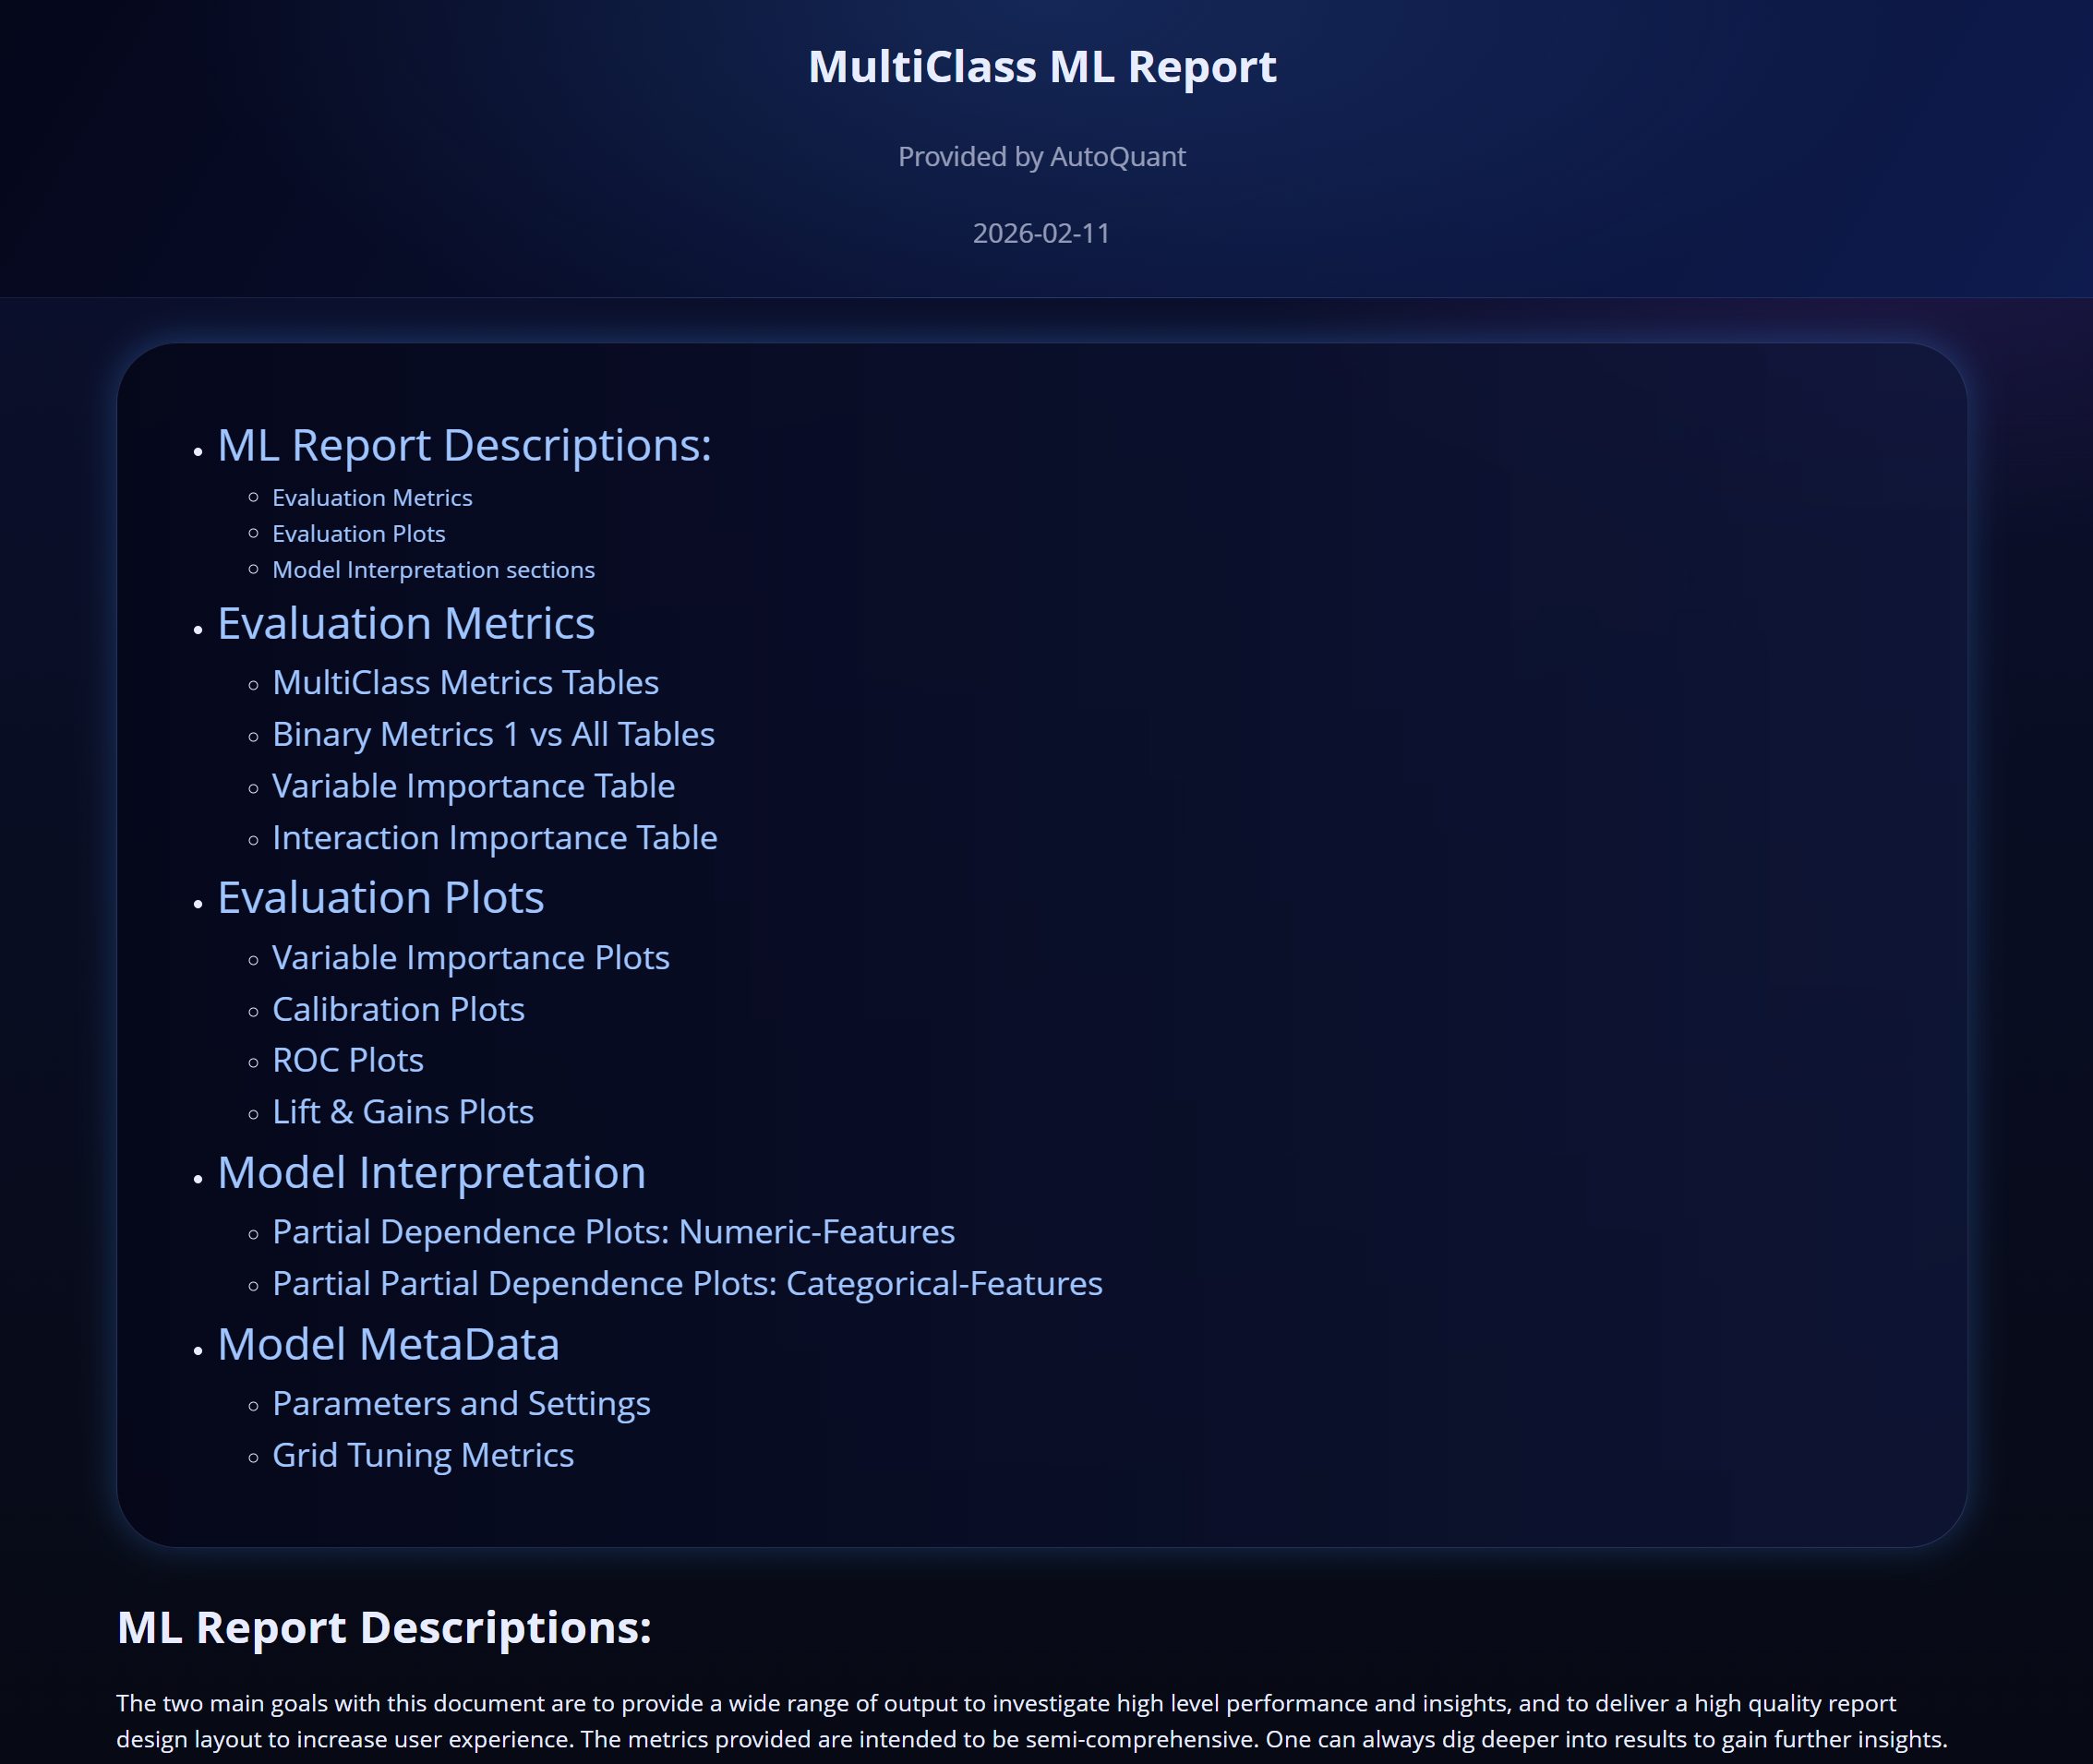
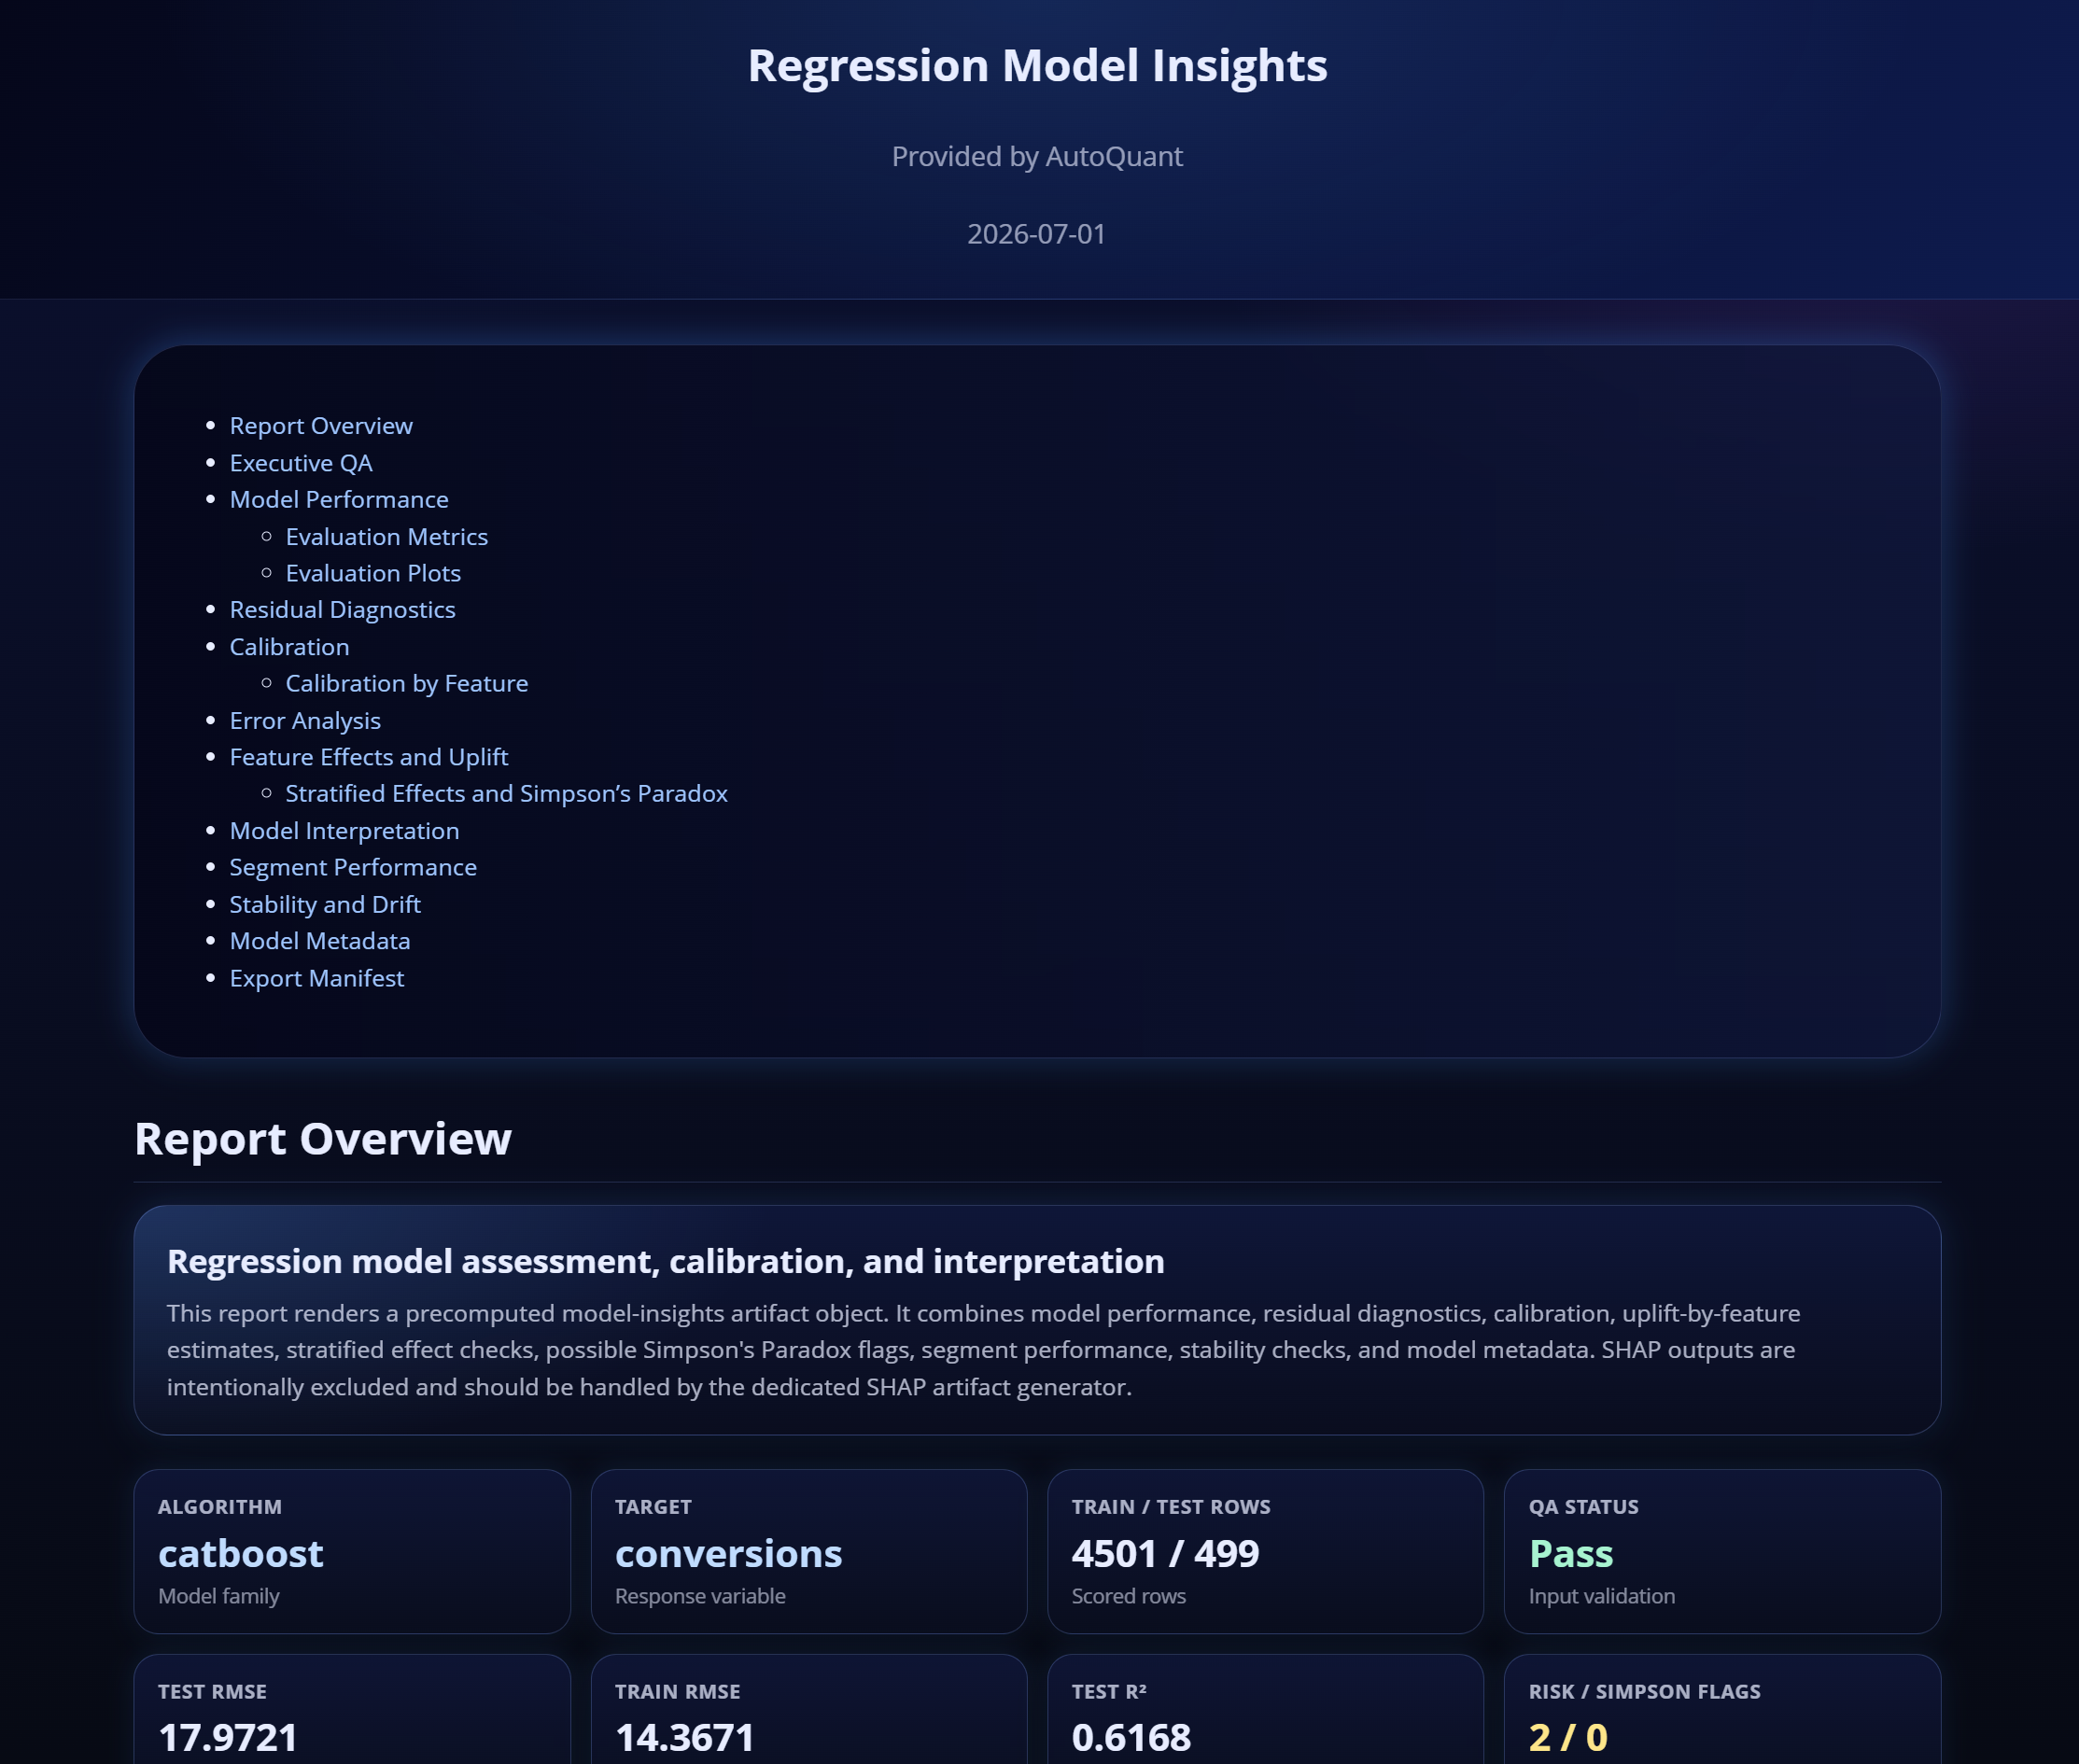
Update README

diff --git a/README.md b/README.md
@@ -4037,53 +4037,319 @@ Preds <- AutoQuant::AutoXGBoostScoring(
 <p>
 
 ```r
-# Create some dummy correlated data
-data <- AutoQuant::FakeDataGenerator(
-  Correlation = 0.85,
-  N = 10000,
-  ID = 2,
-  ZIP = 0,
-  AddDate = FALSE,
-  Classification = FALSE,
-  MultiClass = FALSE)
+set.seed(8675309)
 
-# Copy data
-data1 <- data.table::copy(data)
+library(data.table)
+library(AutoQuant)
 
-# Define features names
-Features <- c(names(data1)[!names(data1) %in% c('IDcol_1','IDcol_2','Adrian')])
+# ----------------------------
+# 1. Create fake data
+# ----------------------------
+
+n <- 5000
+
+dates <- seq.Date(
+  from = as.Date("2023-01-01"),
+  to   = as.Date("2025-12-31"),
+  by   = "day"
+)
+
+dt <- data.table(
+  id = seq_len(n),
+
+  # Date / trend fields
+  event_date = sample(dates, n, replace = TRUE),
+
+  # Grouping fields
+  channel = sample(
+    c("Search", "Social", "Email", "Direct", "Affiliate"),
+    n,
+    replace = TRUE,
+    prob = c(0.34, 0.24, 0.16, 0.18, 0.08)
+  ),
+
+  region = sample(
+    c("West", "South", "Midwest", "Northeast"),
+    n,
+    replace = TRUE,
+    prob = c(0.35, 0.28, 0.20, 0.17)
+  ),
+
+  customer_segment = sample(
+    c("Budget", "Standard", "Premium", "Enterprise"),
+    n,
+    replace = TRUE,
+    prob = c(0.35, 0.40, 0.20, 0.05)
+  )
+)
+
+# Date features for synthetic signal
+dt[, month_num := as.integer(format(event_date, "%m"))]
+dt[, year_num  := as.integer(format(event_date, "%Y"))]
+dt[, day_index := as.integer(event_date - min(event_date))]
+
+# Base effects
+channel_effect <- c(
+  Search    = 1.20,
+  Social    = 0.85,
+  Email     = 1.35,
+  Direct    = 1.00,
+  Affiliate = 0.65
+)
+
+segment_effect <- c(
+  Budget     = 0.70,
+  Standard   = 1.00,
+  Premium    = 1.55,
+  Enterprise = 2.40
+)
+
+region_effect <- c(
+  West      = 1.10,
+  South     = 0.95,
+  Midwest   = 0.85,
+  Northeast = 1.05
+)
+
+# Seasonality and trend
+dt[, seasonality := 1 + 0.25 * sin(2 * pi * month_num / 12)]
+dt[, trend       := 1 + day_index / max(day_index) * 0.35]
+
+# Numeric variables with structure
+dt[, impressions := round(
+  rgamma(.N, shape = 8, scale = 1200) *
+    channel_effect[channel] *
+    seasonality *
+    trend
+)]
+
+dt[, clicks := round(
+  impressions * pmin(
+    pmax(rnorm(.N, mean = 0.035, sd = 0.012), 0.002),
+    0.12
+  )
+)]
+
+dt[, spend := round(
+  impressions * runif(.N, 0.008, 0.025) *
+    channel_effect[channel] *
+    region_effect[region],
+  2
+)]
+
+dt[, conversions := rpois(
+  .N,
+  lambda = pmax(
+    clicks *
+      runif(.N, 0.025, 0.12) *
+      segment_effect[customer_segment] *
+      region_effect[region],
+    0.01
+  )
+)]
+
+dt[, revenue := round(
+  conversions *
+    rgamma(.N, shape = 4, scale = 90) *
+    segment_effect[customer_segment] *
+    runif(.N, 0.75, 1.35),
+  2
+)]
+
+dt[, ctr := clicks / pmax(impressions, 1)]
+dt[, cvr := conversions / pmax(clicks, 1)]
+dt[, cpc := spend / pmax(clicks, 1)]
+dt[, roas := revenue / pmax(spend, 1)]
+
+# Some less-behaved variables for QA
+dt[, noise_normal := rnorm(.N, mean = 100, sd = 15)]
+dt[, skewed_score := rgamma(.N, shape = 2, scale = 20)]
+dt[, binary_flag := rbinom(.N, size = 1, prob = 0.28)]
+
+# Deliberate correlated variables
+dt[, spend_lag_proxy := spend * runif(.N, 0.85, 1.15) + rnorm(.N, 0, 25)]
+dt[, revenue_proxy   := revenue * runif(.N, 0.90, 1.10) + rnorm(.N, 0, 100)]
+
+# Deliberate outliers
+outlier_rows <- sample(seq_len(n), size = 35)
+dt[outlier_rows, spend := spend * runif(.N, 4, 9)]
+dt[outlier_rows, revenue := revenue * runif(.N, 3, 7)]
+dt[outlier_rows, impressions := round(impressions * runif(.N, 2, 5))]
+
+# Deliberate missingness
+dt[sample(.N, 150), revenue := NA_real_]
+dt[sample(.N, 120), cpc := NA_real_]
+dt[sample(.N, 90), customer_segment := NA_character_]
+dt[sample(.N, 80), ctr := NA_real_]
+
+# Deliberate zero-heavy variable
+dt[, zero_heavy_metric := fifelse(
+  runif(.N) < 0.72,
+  0,
+  round(rgamma(.N, shape = 2, scale = 15), 2)
+)]
+
+# Clean helper columns if you do not want them in report
+# Keeping them can also help QA univariate behavior.
+# dt[, c("month_num", "year_num", "day_index", "seasonality", "trend") := NULL]
+
+
+# ----------------------------
+# 2. Define report inputs
+# ----------------------------
+
+UnivariateVars <- c(
+  "impressions",
+  "clicks",
+  "spend",
+  "conversions",
+  "revenue",
+  "ctr",
+  "cvr",
+  "cpc",
+  "roas",
+  "noise_normal",
+  "skewed_score",
+  "binary_flag",
+  "zero_heavy_metric",
+  "channel",
+  "region",
+  "customer_segment"
+)
+
+CorrVars <- c(
+  "impressions",
+  "clicks",
+  "spend",
+  "spend_lag_proxy",
+  "conversions",
+  "revenue",
+  "revenue_proxy",
+  "ctr",
+  "cvr",
+  "cpc",
+  "roas",
+  "noise_normal",
+  "skewed_score",
+  "zero_heavy_metric"
+)
+
+TrendVars <- c(
+  "impressions",
+  "clicks",
+  "spend",
+  "conversions",
+  "revenue",
+  "ctr",
+  "cvr",
+  "cpc",
+  "roas"
+)
+
+OutputPath <- getwd()
+
+
+# ----------------------------
+# 4. Build Catboost model
+# ----------------------------
+
+target <- "conversions"
+features <- c(
+  "impressions", "clicks", "spend",
+  "seasonality", "trend",
+  "channel", "region", "customer_segment"
+)
+
+id_cols <- setdiff(names(dt), c(target, features))
 
 # Run function
 ModelObject <- AutoQuant::AutoCatBoostRegression(
-  
+
   # GPU or CPU and the number of available GPUs
   task_type = 'GPU',
   NumGPUs = 1,
-  NumOfParDepPlots = length(Features),
-  
+  NumOfParDepPlots = 0,
+
   # Metadata args
-  OutputSelection = c('Importances','EvalPlots','EvalMetrics','Score_TrainData'),
+  OutputSelection = c('Importances','EvalMetrics','Score_TrainData'),
   ModelID = 'Test_Model_1',
   model_path = getwd(),
   metadata_path = getwd(),
   ReturnModelObjects = TRUE,
-  
-  # Data args
-  data = data1,
-  TargetColumnName = 'Adrian',
-  FeatureColNames = Features,
-  IDcols = c('IDcol_1','IDcol_2'),
-  TransformNumericColumns = 'Adrian',
-  Methods = c('Asinh','Asin','Log','LogPlus1','Sqrt','Logit'))
 
-# Build report
-AutoQuant::ModelInsightsReport(
-  TrainDataInclude = TRUE,
-  FeatureColumnNames = Features,
-  SampleSize = 100000,
+  # Data args
+  data = dt,
+  TargetColumnName = "conversions",
+  FeatureColNames = features,
+  IDcols = id_cols,
+  TransformNumericColumns = NULL,
+  Methods = c('Asinh','Asin','Log','LogPlus1','Sqrt','Logit'),
+  Trees = 200
+)
+
+# ----------------------------
+# 5. Run artifact generator
+# ----------------------------
+
+ModelInsightsArtifacts <- generate_regression_model_insights_artifacts(
+
+  # Model object from AutoCatBoostRegression()
   ModelObject = ModelObject,
-  ModelID = 'Test_Model_1',
-  OutputPath = getwd())
+
+  # Important for CatBoost-specific importance / interaction handling
+  Algo = "catboost",
+
+  # Explicitly pass these so the generator does not have to infer
+  TargetColumnName = target,
+  PredictionColumnName = "Predict",
+  FeatureColumnNames = features,
+
+  # Good candidates for segment and Simpson's Paradox / by-variable checks
+  SegmentVars = c("channel", "region", "customer_segment"),
+  ByVars = c("channel", "region", "customer_segment"),
+
+  # Optional, only use this if one of your columns is truly a date/time var
+  DateVar = NULL,
+
+  # Optional ID columns retained in top-error tables
+  IDColumn = if (length(id_cols) > 0L) id_cols[1L] else NULL,
+
+  # Visual theme
+  Theme = "dark",
+
+  # First run: keep everything dynamic, no exports
+  OutputPath = NULL,
+  ExportPNG = FALSE,
+  ExportHTML = FALSE,
+  IncludeDataURL = FALSE,
+
+  # Controls
+  GenerateCalibrationPDP = TRUE,
+  GenerateUpliftPDP = TRUE,
+  GenerateStratifiedEffects = TRUE,
+  DetectSimpsonsParadox = TRUE,
+
+  SampleSize = 100000L,
+  NumberBins = 20L,
+  CalibrationBins = 21L,
+  UpliftBins = 20L,
+  MaxPDPFeatures = 50L,
+  MaxByLevels = 10L,
+  MaxCategoricalLevels = 25L,
+  MaxSegmentLevels = 25L,
+  MinByGroupN = 50L,
+  MinSegmentN = 25L,
+  MaxTopErrors = 100L,
+  MaxInteractionRows = 200L
+)
+
+ReportPath <- RegressionModelInsightsReport(
+  artifacts = ModelInsightsArtifacts,
+  OutputPath = getwd(),
+  OutputFile = "Regression_ModelInsights_Report.html",
+  Quiet = FALSE
+)
+
 ```
 
 </p>